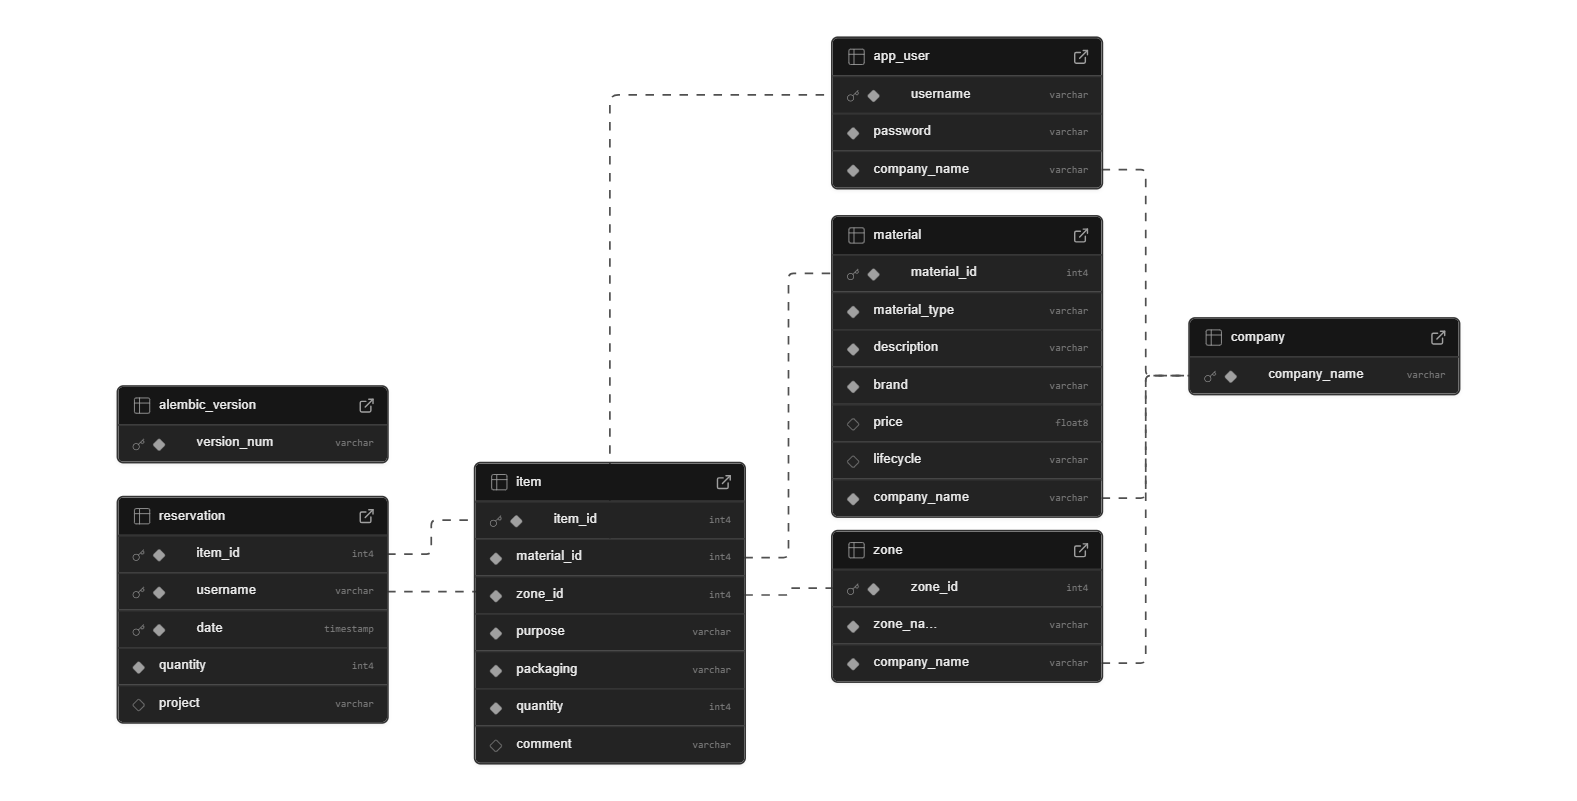
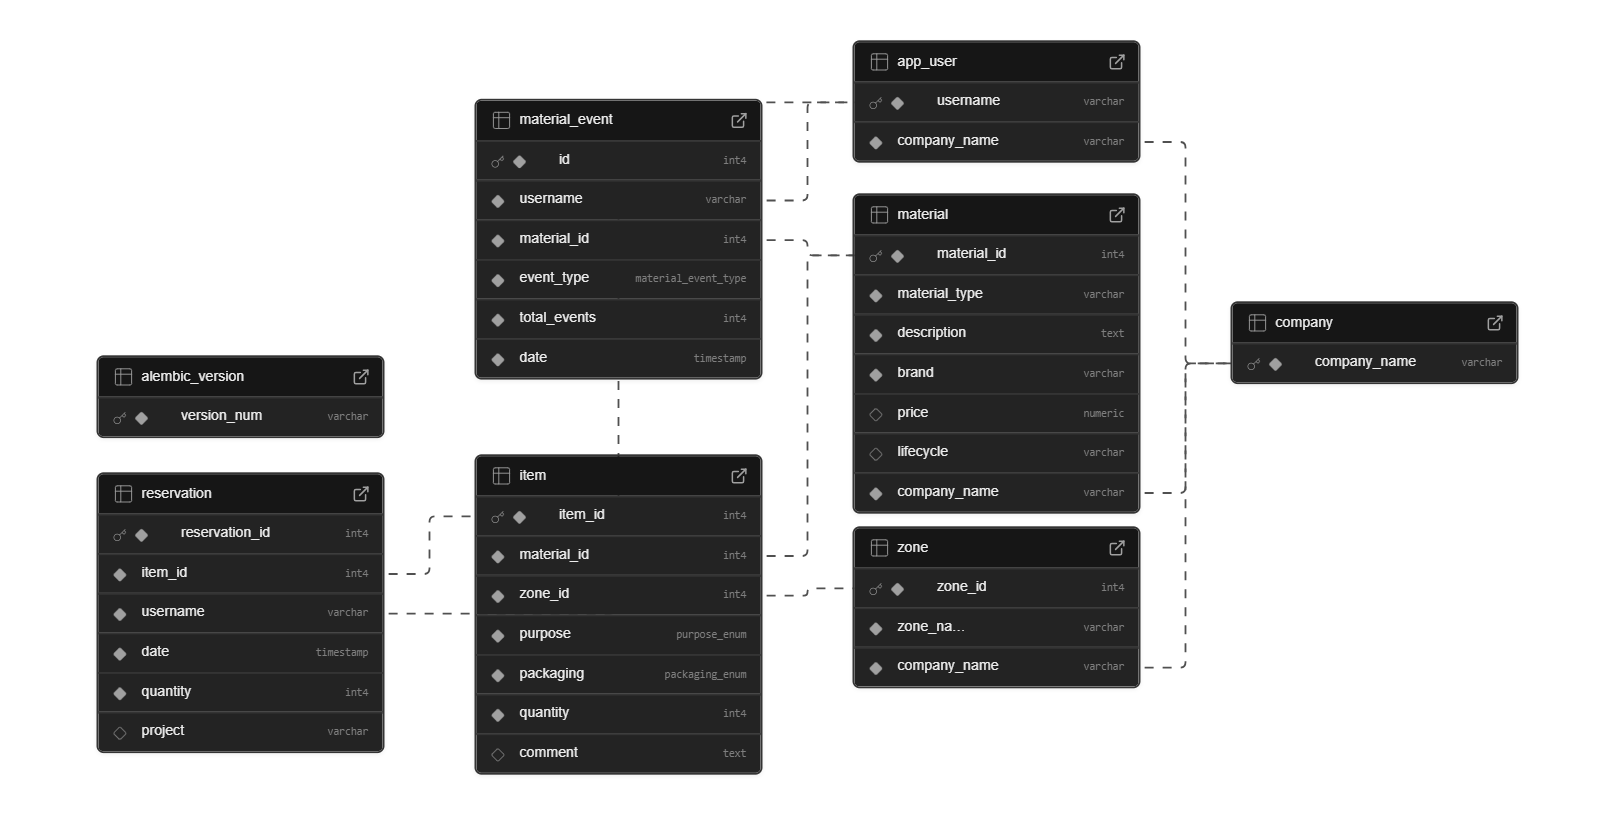
Update deel 2

Changed region(s): [[0.2796, 0.0312, 0.9632, 0.9675], [0.0311, 0.437, 0.2486, 0.9363]]

diff --git a/app/models.py b/app/models.py
@@ -1,10 +1,11 @@
 from datetime import datetime #voor 'date'
+from sqlalchemy import CheckConstraint
 
 
 from flask_sqlalchemy import SQLAlchemy
 
 db = SQLAlchemy()
-
+#Zoveel mogelijk aangesloten aan vb. Assistent 
 
 #tabel creëren met bijhorende kolommen
 class Company(db.Model):
@@ -25,7 +26,7 @@ class User(db.Model): #'Setting a password is not required', eigen inpmlemenatie
     __tablename__ = 'app_user'  # 'user' is een gereserveerd woord in SQL
 
     username = db.Column(db.String, primary_key=True) #PK want eigen aan bedrijf (bv. frederic.de_haes@primetals.com)
-    company_name = db.Column(db.String, db.ForeignKey('company.company_name', ondelete="CASCADE", onupdate="CASCADE"), nullable=False)
+    company_name = db.Column(db.String, db.ForeignKey('company.company_name', ondelete="RESTRICT", onupdate="CASCADE"), nullable=False)
 
     reservations = db.relationship('Reservation', backref='user', lazy=True)
     material_events = db.relationship('MaterialEvent', backref='user', lazy=True)
@@ -40,13 +41,14 @@ class Material(db.Model):
     material_type = db.Column(db.String, nullable=False)
     description = db.Column(db.Text, nullable=False) #NIET nullable
     brand = db.Column(db.String, nullable=False)
-    price = db.Column(db.Float) #Float ipv. Numeric (SQL), zoals assistent
+    price = db.Column(db.Numeric(10, 2))
     lifecycle = db.Column(db.String)
-    company_name = db.Column(db.String, db.ForeignKey('company.company_name', ondelete="CASCADE", onupdate="CASCADE"), nullable=False)
+    company_name = db.Column(db.String, db.ForeignKey('company.company_name', ondelete="RESTRICT", onupdate="CASCADE"), nullable=False)
 
     #contraints toevoegen
     __table_args__ = (
-        db.UniqueConstraint('company_name','material_type', 'brand', name='UC1'), #zelfde materiaal mag bij ander bedrijf opnieuw bestaan
+        db.UniqueConstraint('company_name','material_type', 'brand', name='UC1'), #zelfde materiaal mag bij ander bedrijf opnieuw bestaan (andere prijs/lifecycle)
+        CheckConstraint('price >= 0', name='CC1'),
         )
 
     items = db.relationship('Item', backref='material', lazy=True)
@@ -59,7 +61,7 @@ class Material(db.Model):
 class Zone(db.Model):
     zone_id = db.Column(db.Integer, primary_key=True)  # GENERATED BY DEFAULT AS IDENTITY (SQL)
     zone_name = db.Column(db.String, nullable=False)
-    company_name = db.Column(db.String, db.ForeignKey('company.company_name', ondelete="CASCADE", onupdate="CASCADE"), nullable=False)
+    company_name = db.Column(db.String, db.ForeignKey('company.company_name', ondelete="RESTRICT", onupdate="CASCADE"), nullable=False)
 
     __table_args__ = (
         db.UniqueConstraint('company_name', 'zone_name', name='UC2'),
@@ -73,8 +75,8 @@ class Zone(db.Model):
 
 class Item(db.Model):
     item_id = db.Column(db.Integer, primary_key=True) #GENERATED BY DEFAULT AS IDENTITY (SQL)
-    material_id = db.Column(db.Integer, db.ForeignKey('material.material_id', ondelete="CASCADE", onupdate="CASCADE"), nullable=False)
-    zone_id = db.Column(db.Integer, db.ForeignKey('zone.zone_id', ondelete="CASCADE", onupdate="CASCADE"), nullable=False)
+    material_id = db.Column(db.Integer, db.ForeignKey('material.material_id', ondelete="RESTRICT", onupdate="CASCADE"), nullable=False)
+    zone_id = db.Column(db.Integer, db.ForeignKey('zone.zone_id', ondelete="RESTRICT", onupdate="CASCADE"), nullable=False)
     purpose = db.Column(db.Enum('keep', 'sell', 'dispose', name='purpose_enum'), nullable=False)
     packaging = db.Column(db.Enum('open', 'closed', 'none', name='packaging_enum'), nullable=False)
     quantity = db.Column(db.Integer, nullable=False)
@@ -82,6 +84,7 @@ class Item(db.Model):
 
     __table_args__ = (
         db.UniqueConstraint('material_id', 'zone_id', 'purpose', 'packaging', name='UC3'),
+        CheckConstraint('quantity >= 0', name='CC2'),
     )
 
     reservations = db.relationship('Reservation', backref='item', lazy=True)
@@ -92,11 +95,15 @@ class Item(db.Model):
 
 class Reservation(db.Model):
     reservation_id = db.Column(db.Integer, primary_key=True) #date onhandig als PK
-    item_id = db.Column(db.Integer, db.ForeignKey('item.item_id', ondelete="CASCADE", onupdate="CASCADE"), nullable=False)
-    username = db.Column(db.String, db.ForeignKey('app_user.username', ondelete="CASCADE", onupdate="CASCADE"), nullable=False)
+    item_id = db.Column(db.Integer, db.ForeignKey('item.item_id', ondelete="RESTRICT", onupdate="CASCADE"), nullable=False)
+    username = db.Column(db.String, db.ForeignKey('app_user.username', ondelete="CASCADE", onupdate="CASCADE"), nullable=False) #User weg -> reservations weg
     date = db.Column(db.DateTime, server_default=db.func.current_timestamp(), nullable=False) #timestamp DEFAULT CURRENT_TIMESTAMP (SQL)
     quantity = db.Column(db.Integer, nullable=False)
     project = db.Column(db.String)
+
+    __table_args__ = (
+        CheckConstraint('quantity > 0', name='CC3'),
+    )
 
     #geen relationship nodig, want we navigaties al mogelijk via backref
 
@@ -104,15 +111,19 @@ class Reservation(db.Model):
         return f"<Reservation: Item_ID={self.item_id} by {self.username} on {self.date}>" #PK
 
 
-class MaterialEvent(db.Model):
+class MaterialEvent(db.Model): #Counter
     __tablename__ = "material_event"
 
     id = db.Column(db.Integer, primary_key=True)
     username = db.Column(db.String, db.ForeignKey('app_user.username', ondelete="CASCADE", onupdate="CASCADE"), nullable=False,)
     material_id = db.Column(db.Integer, db.ForeignKey('material.material_id', ondelete="CASCADE", onupdate="CASCADE"), nullable=False)
     event_type = db.Column(db.Enum('view','reserve', name='material_event_type'), nullable=False)
-    total_events = db.Column(db.Integer, nullable=False, server_default=db.text("0"))
-    date = db.Column(db.DateTime, server_default=db.func.current_timestamp(), nullable=False)
+    total_events = db.Column(db.Integer, nullable=False, server_default=db.text("0")) #wordt telkens ge-update
+    date = db.Column(db.DateTime, server_default=db.func.current_timestamp(), nullable=False) #meest recente datum, (telkens overschreven bij update)
+
+    __table_args__ = (
+        db.UniqueConstraint('username', 'material_id', 'event_type', name='UC4'),
+    )
 
     #geen relationship nodig, want we navigaties al mogelijk via backref
 

diff --git a/migrations/versions/7eb53a8fc380_full_rebuild_new_models.py b/migrations/versions/7eb53a8fc380_full_rebuild_new_models.py
@@ -1,8 +1,8 @@
 """FULL REBUILD: new models
 
-Revision ID: 2ffeb6c6ec03
+Revision ID: 7eb53a8fc380
 Revises: 
-Create Date: 2025-12-09 12:56:30.152963
+Create Date: 2025-12-13 17:08:38.362555
 
 """
 from alembic import op
@@ -10,7 +10,7 @@ import sqlalchemy as sa
 
 
 # revision identifiers, used by Alembic.
-revision = '2ffeb6c6ec03'
+revision = '7eb53a8fc380'
 down_revision = None
 branch_labels = None
 depends_on = None
@@ -24,28 +24,28 @@ def upgrade():
     )
     op.create_table('app_user',
     sa.Column('username', sa.String(), nullable=False),
-    sa.Column('password', sa.String(), nullable=False),
     sa.Column('company_name', sa.String(), nullable=False),
-    sa.ForeignKeyConstraint(['company_name'], ['company.company_name'], onupdate='CASCADE', ondelete='CASCADE'),
+    sa.ForeignKeyConstraint(['company_name'], ['company.company_name'], onupdate='CASCADE', ondelete='RESTRICT'),
     sa.PrimaryKeyConstraint('username')
     )
     op.create_table('material',
     sa.Column('material_id', sa.Integer(), nullable=False),
     sa.Column('material_type', sa.String(), nullable=False),
-    sa.Column('description', sa.String(), nullable=False),
+    sa.Column('description', sa.Text(), nullable=False),
     sa.Column('brand', sa.String(), nullable=False),
-    sa.Column('price', sa.Float(), nullable=True),
+    sa.Column('price', sa.Numeric(precision=10, scale=2), nullable=True),
     sa.Column('lifecycle', sa.String(), nullable=True),
     sa.Column('company_name', sa.String(), nullable=False),
-    sa.ForeignKeyConstraint(['company_name'], ['company.company_name'], onupdate='CASCADE', ondelete='CASCADE'),
+    sa.CheckConstraint('price >= 0', name='CC1'),
+    sa.ForeignKeyConstraint(['company_name'], ['company.company_name'], onupdate='CASCADE', ondelete='RESTRICT'),
     sa.PrimaryKeyConstraint('material_id'),
-    sa.UniqueConstraint('company_name', 'material_type', 'description', name='UC1')
+    sa.UniqueConstraint('company_name', 'material_type', 'brand', name='UC1')
     )
     op.create_table('zone',
     sa.Column('zone_id', sa.Integer(), nullable=False),
-    sa.Column('zone_name', sa.String(length=3), nullable=False),
+    sa.Column('zone_name', sa.String(), nullable=False),
     sa.Column('company_name', sa.String(), nullable=False),
-    sa.ForeignKeyConstraint(['company_name'], ['company.company_name'], onupdate='CASCADE', ondelete='CASCADE'),
+    sa.ForeignKeyConstraint(['company_name'], ['company.company_name'], onupdate='CASCADE', ondelete='RESTRICT'),
     sa.PrimaryKeyConstraint('zone_id'),
     sa.UniqueConstraint('company_name', 'zone_name', name='UC2')
     )
@@ -56,9 +56,10 @@ def upgrade():
     sa.Column('purpose', sa.Enum('keep', 'sell', 'dispose', name='purpose_enum'), nullable=False),
     sa.Column('packaging', sa.Enum('open', 'closed', 'none', name='packaging_enum'), nullable=False),
     sa.Column('quantity', sa.Integer(), nullable=False),
-    sa.Column('comment', sa.String(), nullable=True),
-    sa.ForeignKeyConstraint(['material_id'], ['material.material_id'], onupdate='CASCADE', ondelete='CASCADE'),
-    sa.ForeignKeyConstraint(['zone_id'], ['zone.zone_id'], onupdate='CASCADE', ondelete='CASCADE'),
+    sa.Column('comment', sa.Text(), nullable=True),
+    sa.CheckConstraint('quantity >= 0', name='CC2'),
+    sa.ForeignKeyConstraint(['material_id'], ['material.material_id'], onupdate='CASCADE', ondelete='RESTRICT'),
+    sa.ForeignKeyConstraint(['zone_id'], ['zone.zone_id'], onupdate='CASCADE', ondelete='RESTRICT'),
     sa.PrimaryKeyConstraint('item_id'),
     sa.UniqueConstraint('material_id', 'zone_id', 'purpose', 'packaging', name='UC3')
     )
@@ -67,11 +68,12 @@ def upgrade():
     sa.Column('username', sa.String(), nullable=False),
     sa.Column('material_id', sa.Integer(), nullable=False),
     sa.Column('event_type', sa.Enum('view', 'reserve', name='material_event_type'), nullable=False),
-    sa.Column('total_events', sa.Integer(), server_default='0', nullable=False),
+    sa.Column('total_events', sa.Integer(), server_default=sa.text('0'), nullable=False),
     sa.Column('date', sa.DateTime(), server_default=sa.text('CURRENT_TIMESTAMP'), nullable=False),
     sa.ForeignKeyConstraint(['material_id'], ['material.material_id'], onupdate='CASCADE', ondelete='CASCADE'),
     sa.ForeignKeyConstraint(['username'], ['app_user.username'], onupdate='CASCADE', ondelete='CASCADE'),
-    sa.PrimaryKeyConstraint('id')
+    sa.PrimaryKeyConstraint('id'),
+    sa.UniqueConstraint('username', 'material_id', 'event_type', name='UC4')
     )
     op.create_table('reservation',
     sa.Column('reservation_id', sa.Integer(), nullable=False),
@@ -80,7 +82,8 @@ def upgrade():
     sa.Column('date', sa.DateTime(), server_default=sa.text('CURRENT_TIMESTAMP'), nullable=False),
     sa.Column('quantity', sa.Integer(), nullable=False),
     sa.Column('project', sa.String(), nullable=True),
-    sa.ForeignKeyConstraint(['item_id'], ['item.item_id'], onupdate='CASCADE', ondelete='CASCADE'),
+    sa.CheckConstraint('quantity > 0', name='CC3'),
+    sa.ForeignKeyConstraint(['item_id'], ['item.item_id'], onupdate='CASCADE', ondelete='RESTRICT'),
     sa.ForeignKeyConstraint(['username'], ['app_user.username'], onupdate='CASCADE', ondelete='CASCADE'),
     sa.PrimaryKeyConstraint('reservation_id')
     )
